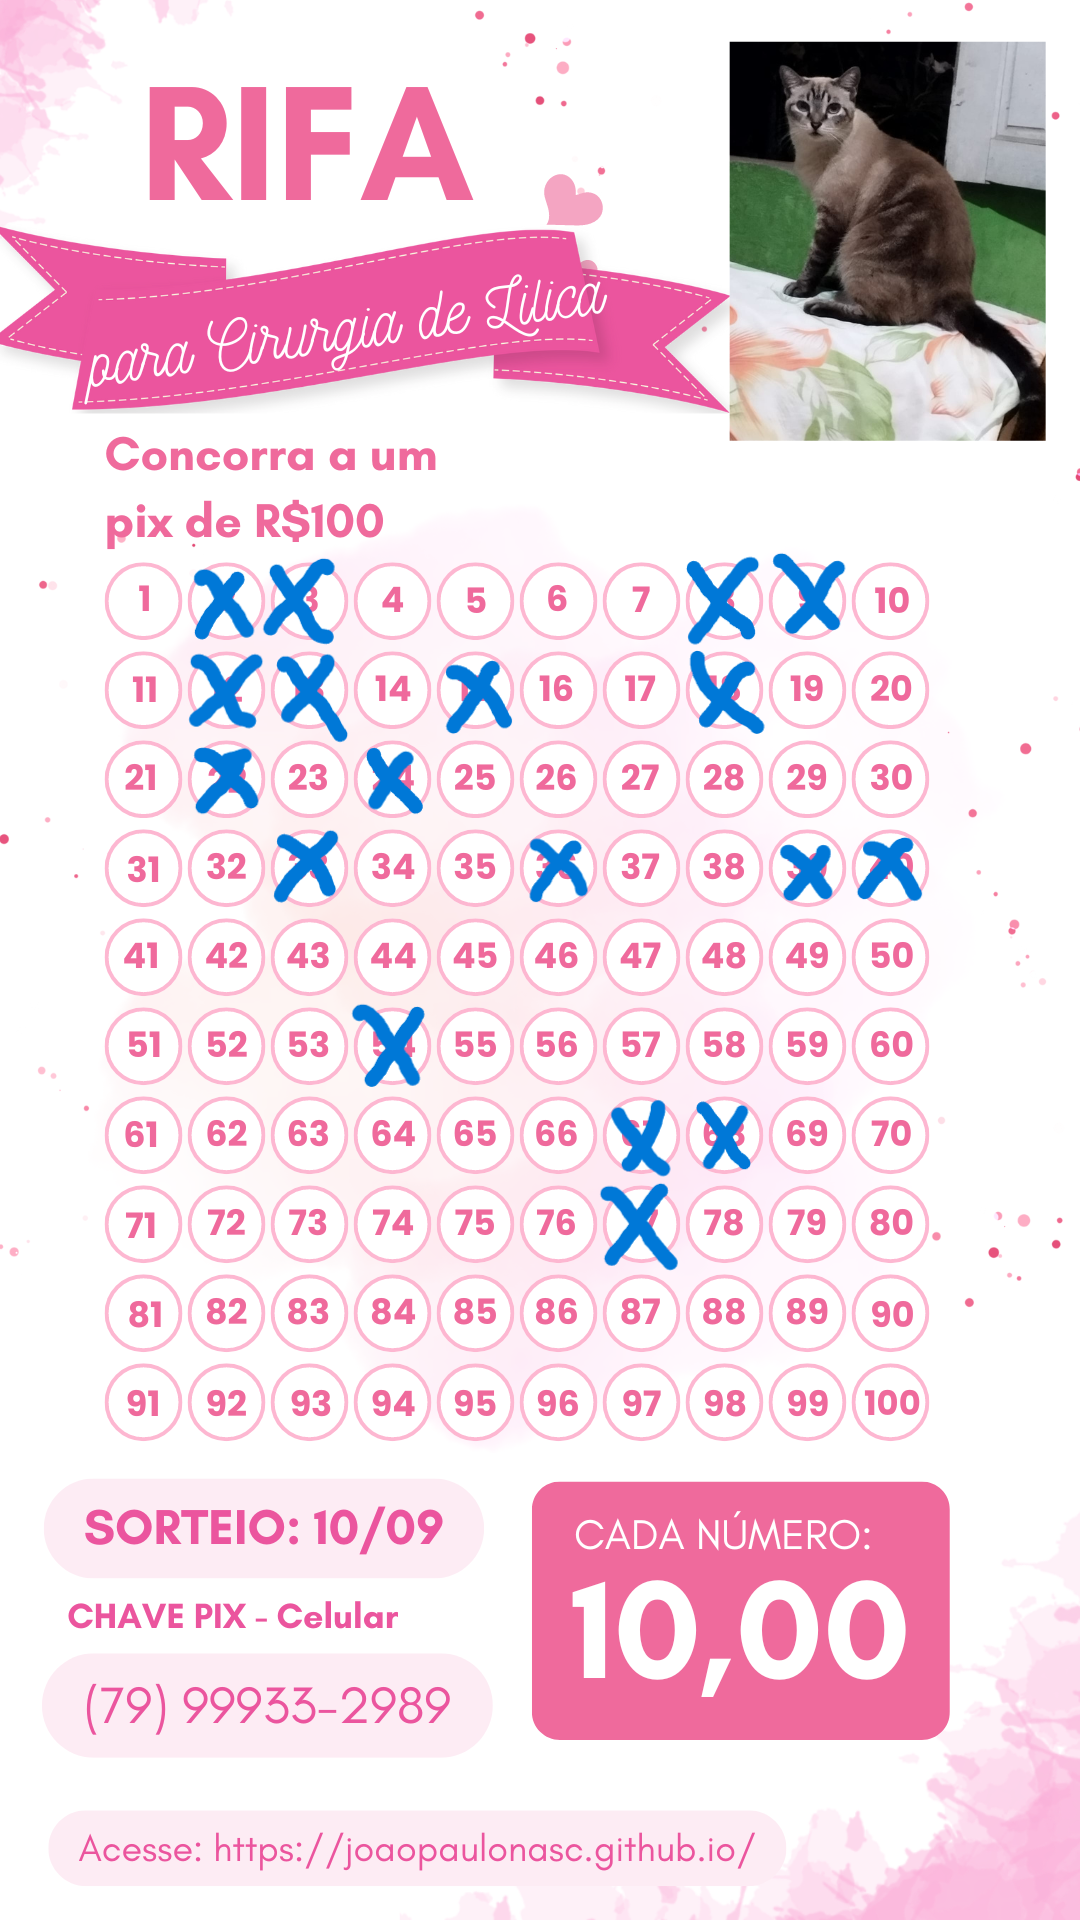
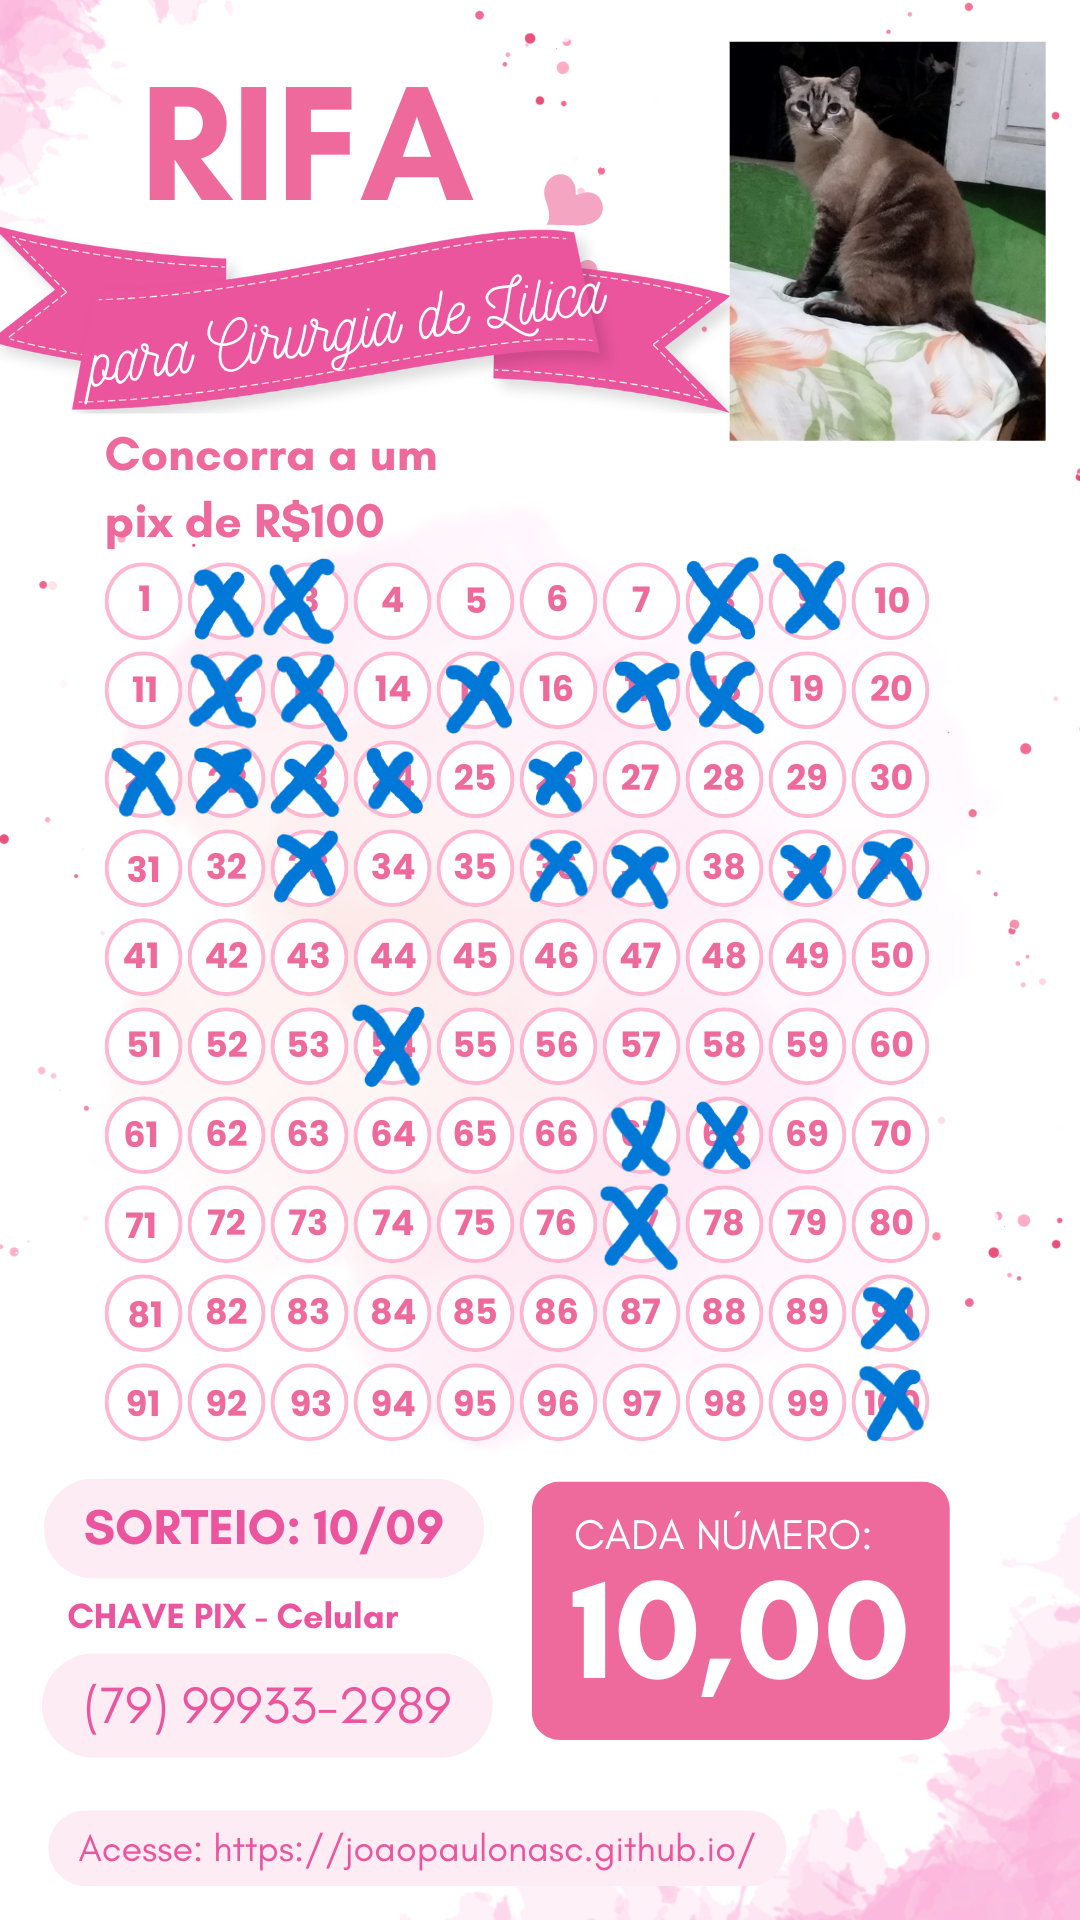
atualização05092024

diff --git a/index.html b/index.html
@@ -118,7 +118,7 @@
           <td>18/08/2024</td>
           <td>David</td>
           <td>R$ 10,00</td>
-          <td>?</td>
+          <td>90</td>
         </tr>
         <td>12</td>
           <td>19/08/2024</td>
@@ -136,13 +136,13 @@
           <td>20/08/2024</td>
           <td>Rosa</td>
           <td>R$ 10,00</td>
-          <td>?</td>
+          <td>37</td>
         </tr>
         <td>15</td>
           <td>27/08/2024</td>
           <td>Sueli</td>
           <td>R$ 20,00</td>
-          <td>?, ?</td>
+          <td>17, 23</td>
         </tr>
         <td>16</td>
           <td>27/08/2024</td>
@@ -155,6 +155,30 @@
           <td>Arlete</td>
           <td>R$ 10,00</td>
           <td>68</td>
+        </tr>
+        <td>18</td>
+          <td>31/08/2024</td>
+          <td>Kaique</td>
+          <td>R$ 20,00</td>
+          <td>?, ?</td>
+        </tr>
+        <td>19</td>
+          <td>31/08/2024</td>
+          <td>Geraldina</td>
+          <td>R$ 10,00</td>
+          <td>100</td>
+        </tr>
+        <td>20</td>
+          <td>02/09/2024</td>
+          <td>Adriana</td>
+          <td>R$ 10,00</td>
+          <td>21</td>
+        </tr>
+        <td>21</td>
+          <td>05/09/2024</td>
+          <td>Geanderson</td>
+          <td>R$ 10,00</td>
+          <td>26</td>
         </tr>
         <!-- Adicione mais linhas conforme necessário -->
       </table>
